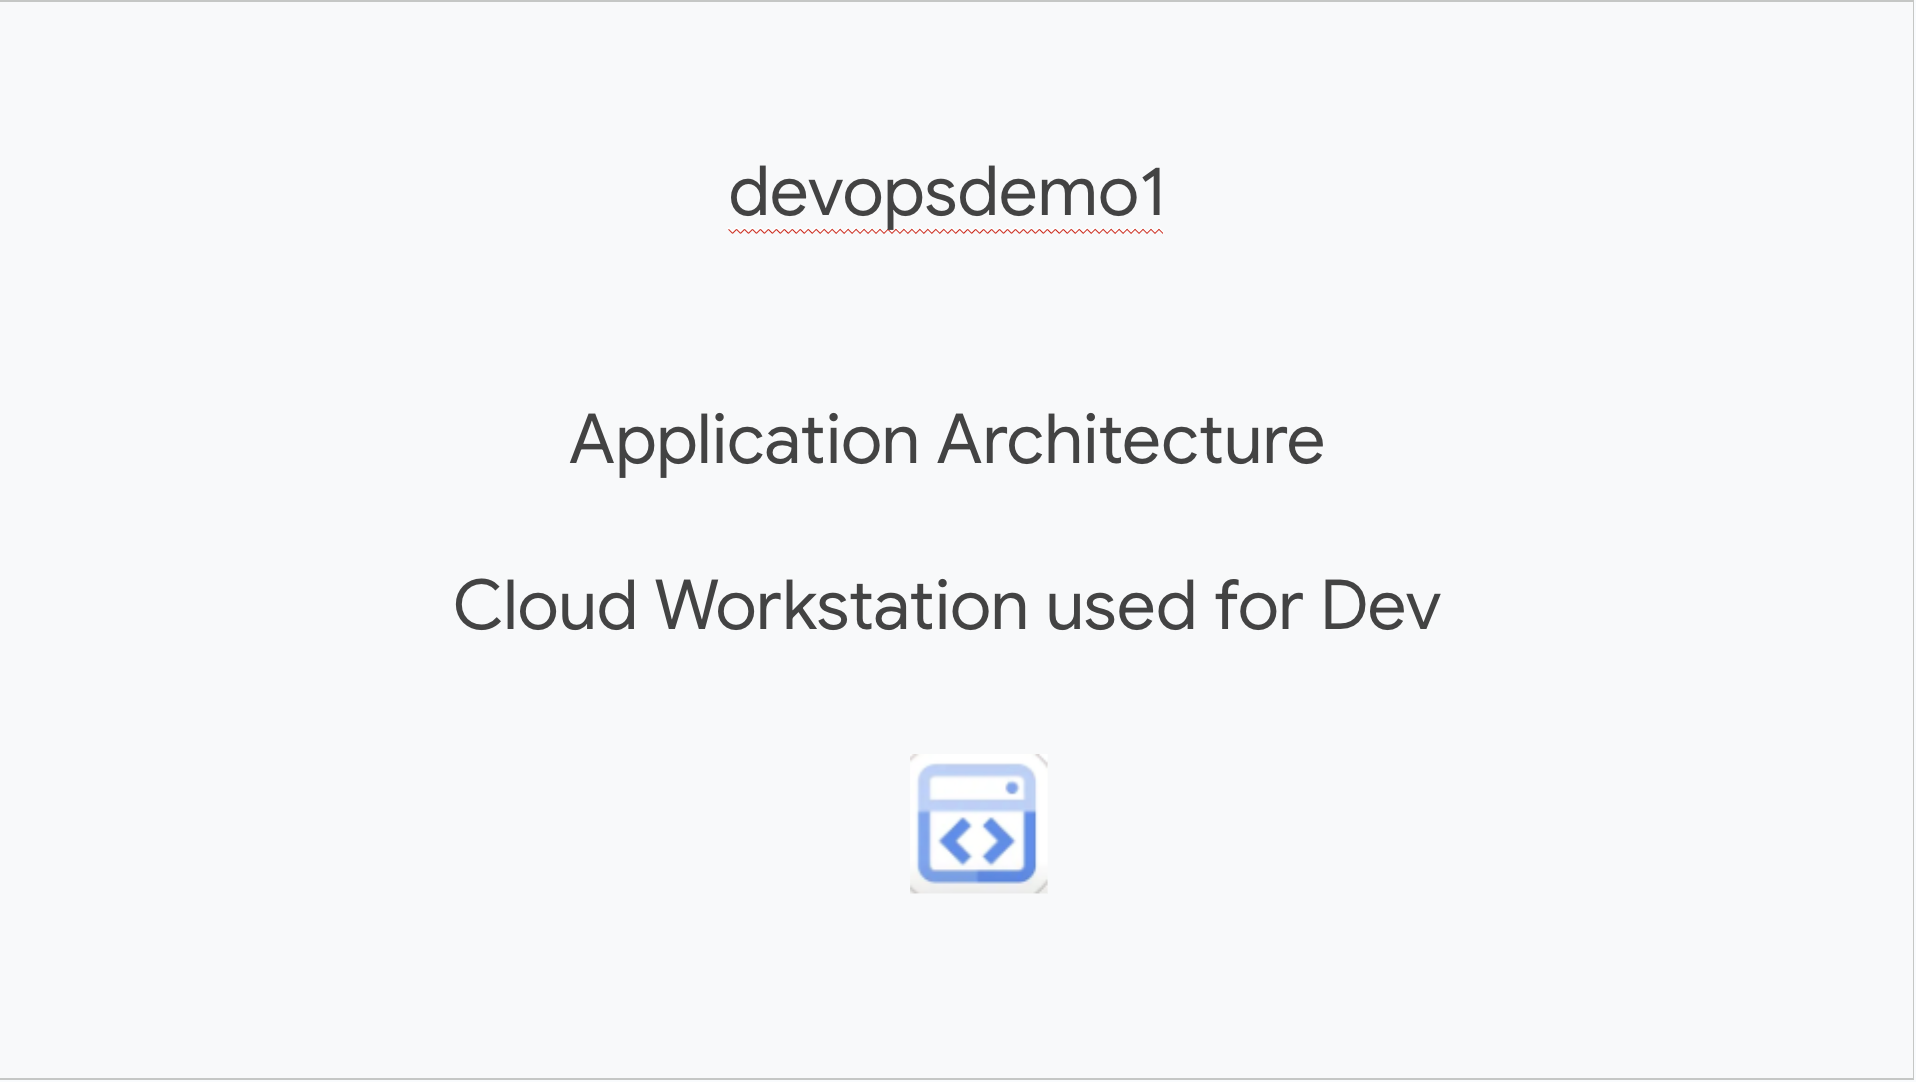
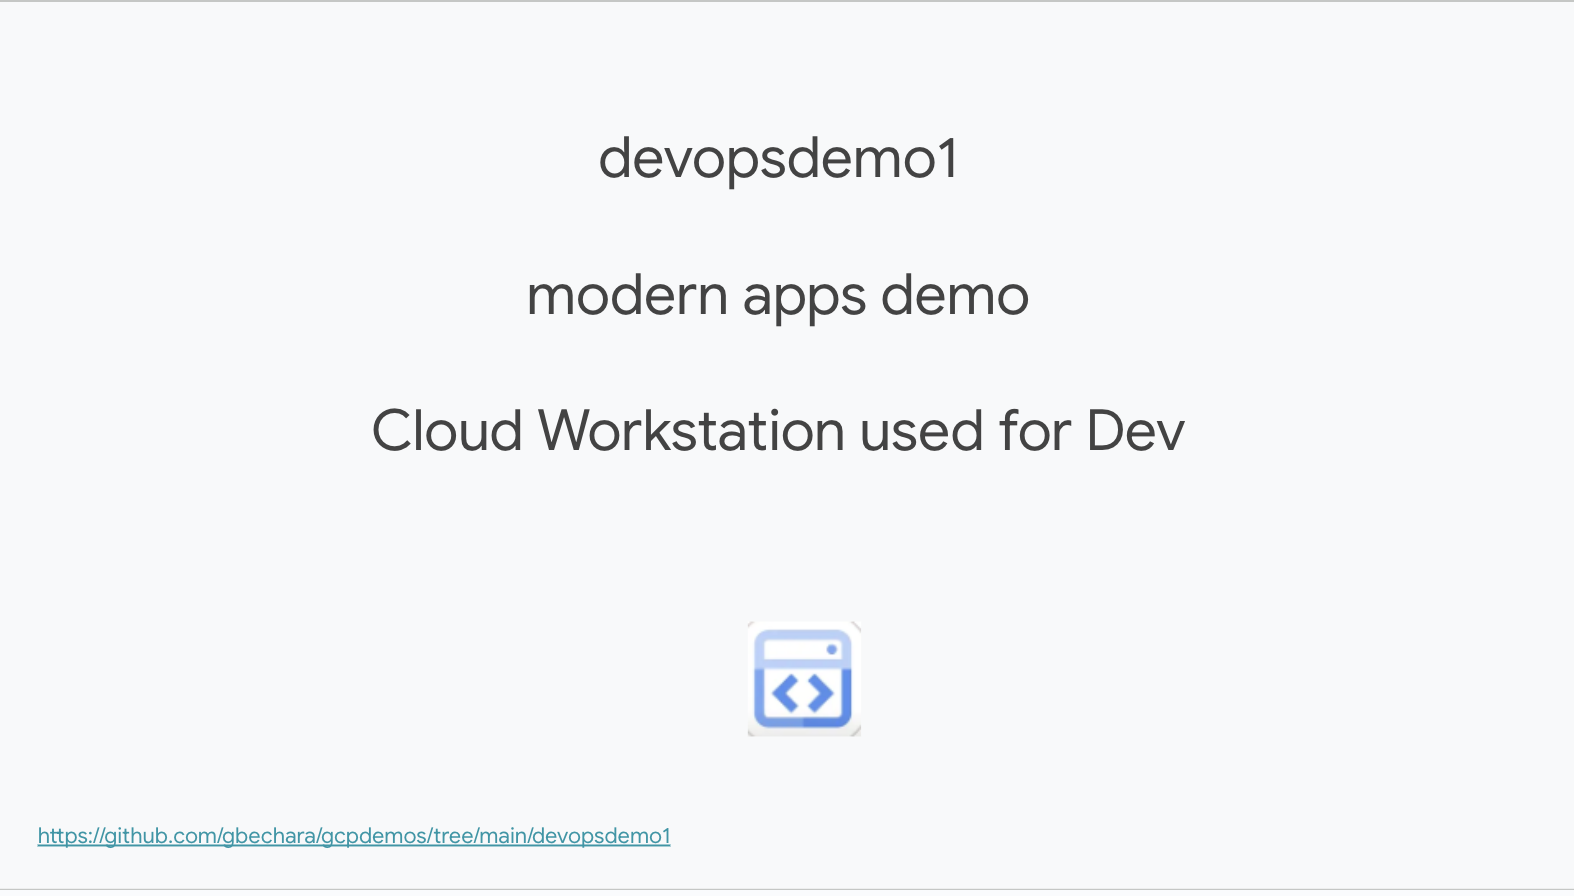
slides

diff --git a/devopsdemo1/README.md b/devopsdemo1/README.md
@@ -3,6 +3,8 @@
 ![Architecture of the Demo](https://github.com/gbechara/gcpdemos/blob/main/devopsdemo1/slide1.png?raw=true)
 ![Architecture of the Demo](https://github.com/gbechara/gcpdemos/blob/main/devopsdemo1/slide2.png?raw=true)
 ![Architecture of the Demo](https://github.com/gbechara/gcpdemos/blob/main/devopsdemo1/slide3.png?raw=true)
+![Architecture of the Demo](https://github.com/gbechara/gcpdemos/blob/main/devopsdemo1/slide4.png?raw=true)
+
 
 CloudBuild & Cloud Deploy for CI/CD  
 Flagger/GatewayAPI for Canary using GMP metrics 
